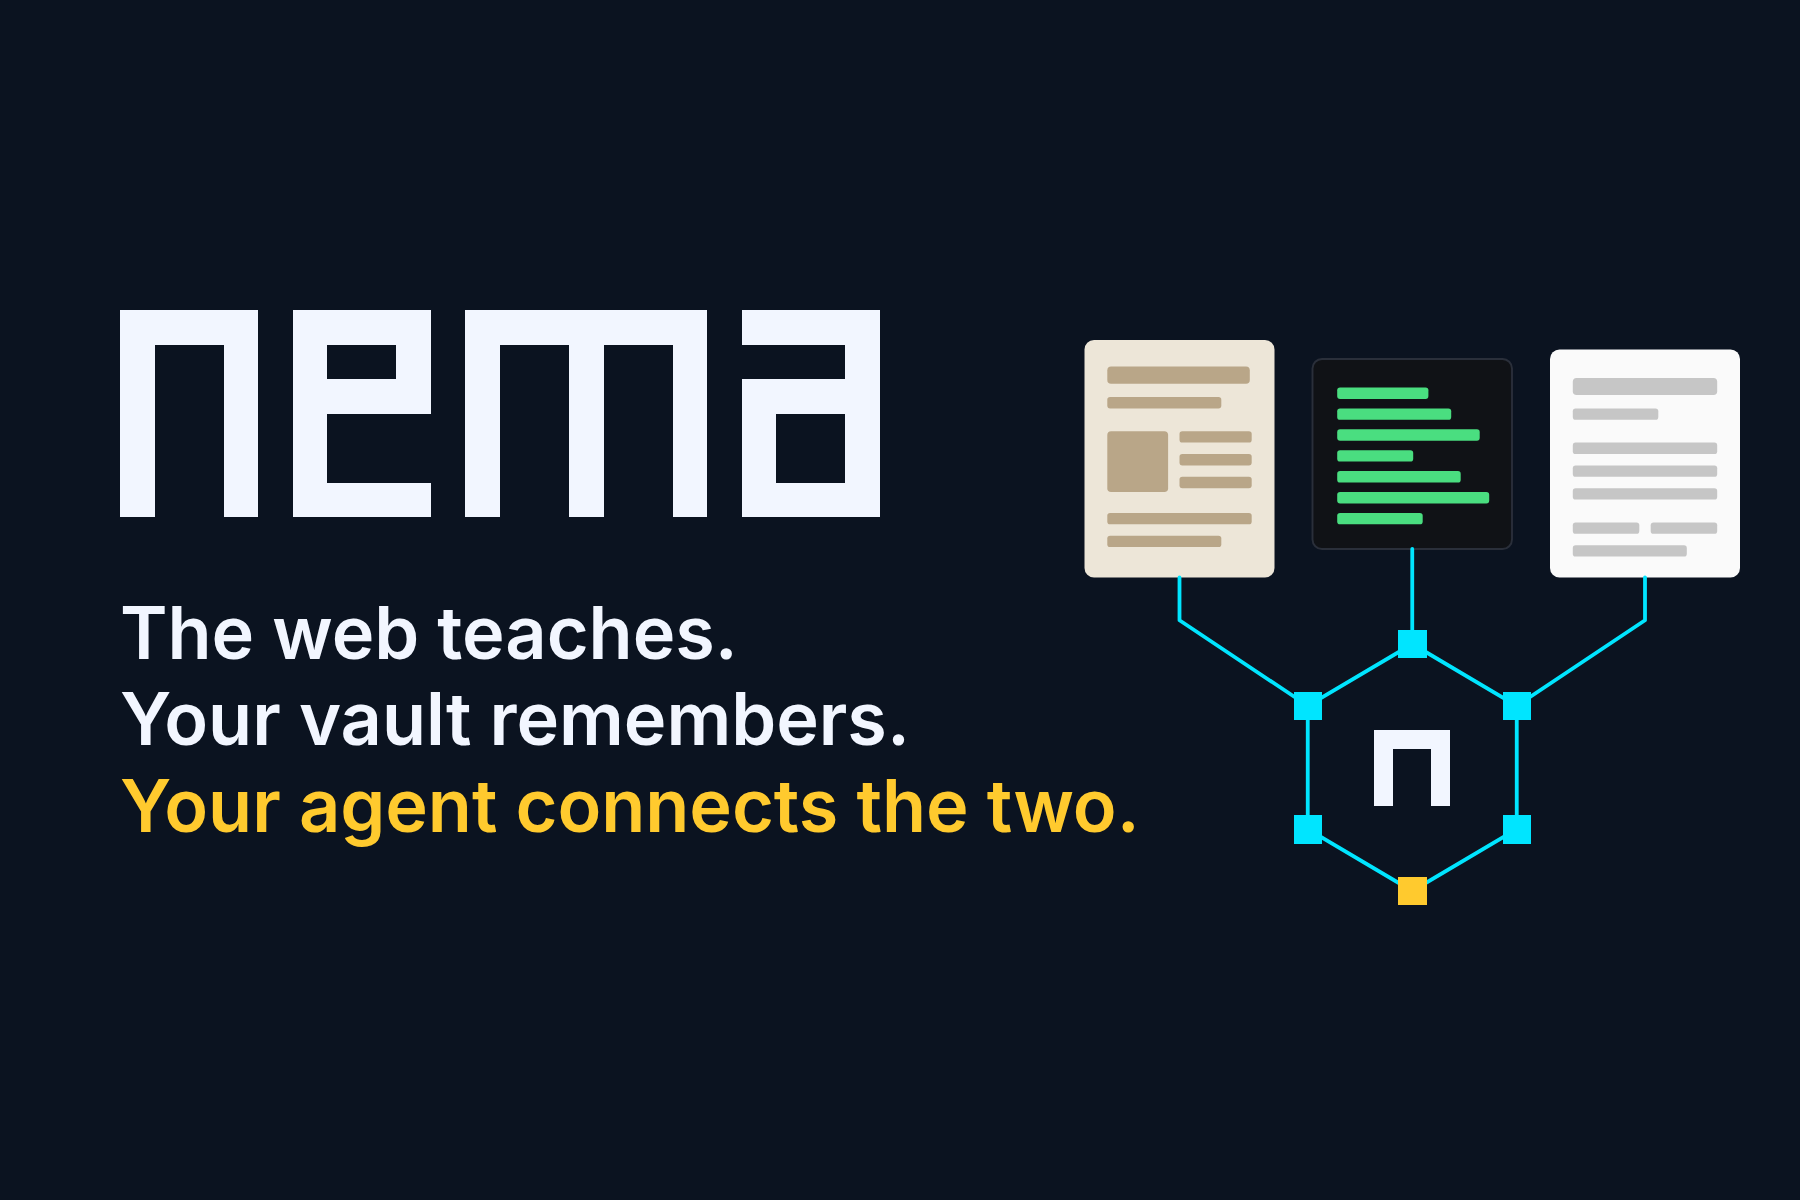
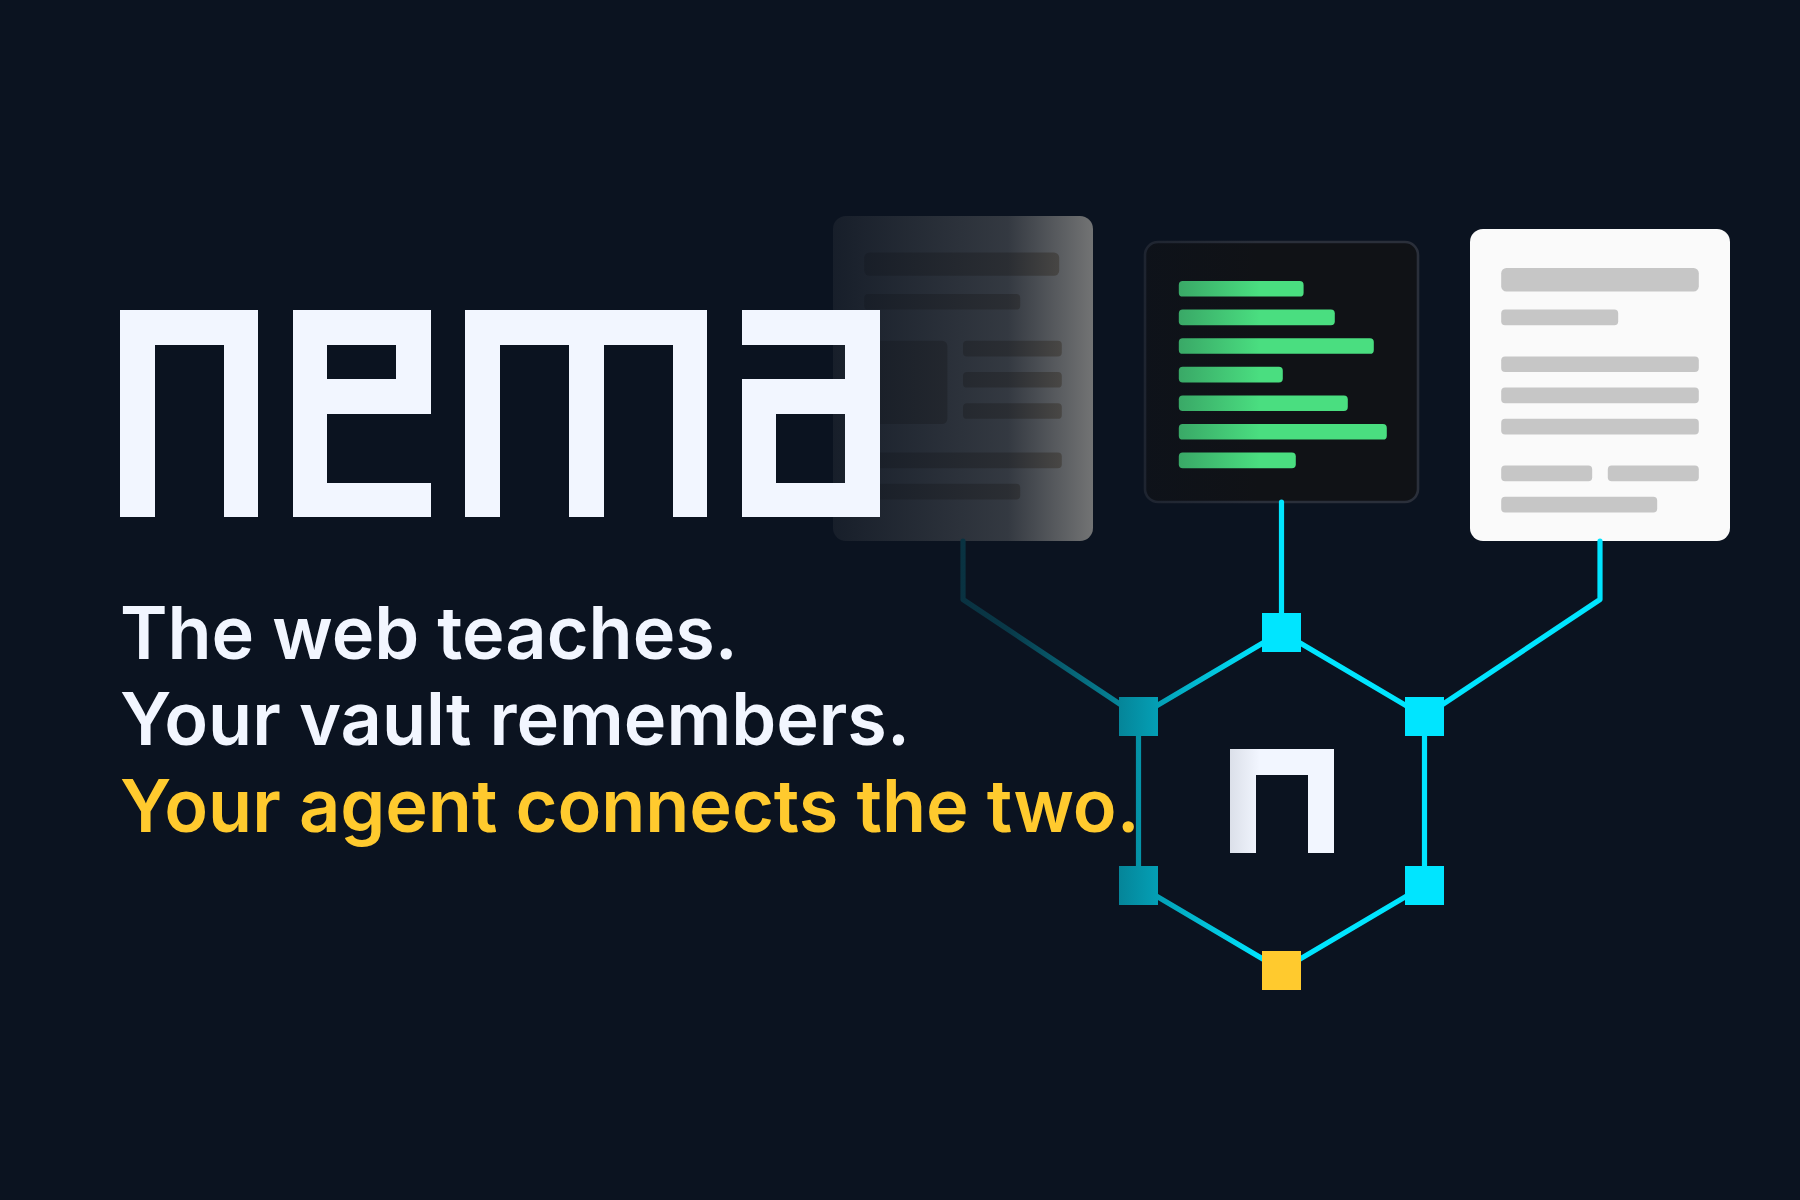
thumbnail: larger diagram behind the text with a fade
Claude-Session: https://claude.ai/code/session_01AfeggrhBqzmN8guag9N5jj

diff --git a/docs/assets/devpost-thumbnail.html b/docs/assets/devpost-thumbnail.html
@@ -6,6 +6,7 @@
   html, body { margin: 0; background: #0B1320; }
   .card { position: relative; width: 1800px; height: 1200px; overflow: hidden; background: #0B1320; font-family: var(--font-ui, Inter, sans-serif); color: #F2F6FF; }
   .diagram { position: absolute; inset: 0; width: 1800px; height: 1200px; }
+  .fade { position: absolute; inset: 0; background: linear-gradient(90deg, #0B1320 0%, #0B1320 42%, rgba(11,19,32,0.82) 56%, rgba(11,19,32,0) 70%); }
   .word { position: absolute; left: 120px; top: 310px; width: 760px; color: #F2F6FF; }
   .word svg { width: 100%; height: auto; display: block; }
   .sub { position: absolute; left: 120px; top: 590px; font-size: 72px; line-height: 1.2; font-weight: 600; color: #F2F6FF; white-space: nowrap; }
@@ -18,7 +19,7 @@
         <stop offset="0" stop-color="#00E5FF"/><stop offset="0.5" stop-color="#15C4B4"/><stop offset="1" stop-color="#3A78FF"/>
       </linearGradient>
     </defs>
-    <g transform="translate(125 245) scale(0.95)">
+    <g transform="translate(-480 86) scale(1.3)">
     <!-- three sites -->
     <rect x="1010" y="100" width="200" height="250" rx="10" fill="#EDE6D8"/>
     <g fill="#B9A688"><rect x="1034" y="128" width="150" height="18" rx="4"/><rect x="1034" y="160" width="120" height="12" rx="3"/><rect x="1034" y="196" width="64" height="64" rx="4"/><rect x="1110" y="196" width="76" height="12" rx="3"/><rect x="1110" y="220" width="76" height="12" rx="3"/><rect x="1110" y="244" width="76" height="12" rx="3"/><rect x="1034" y="282" width="152" height="12" rx="3"/><rect x="1034" y="306" width="120" height="12" rx="3"/></g>
@@ -49,6 +50,7 @@
     </g>
     </g>
   </svg>
+  <div class="fade"></div>
   <div class="word">WORDMARK_SVG</div>
   <div class="sub">The web teaches.<br>Your vault remembers.<br><span class="a">Your agent connects the two.</span></div>
 </div>
